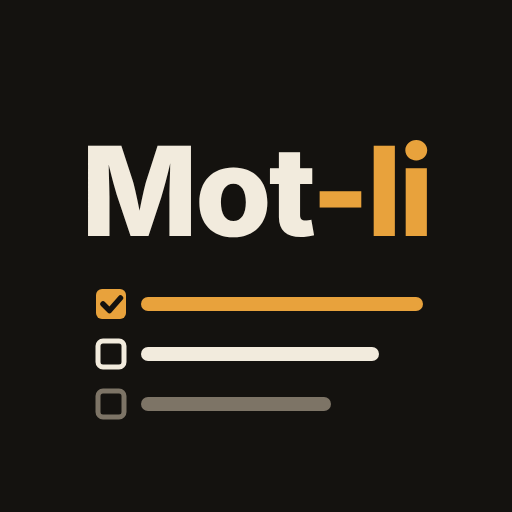
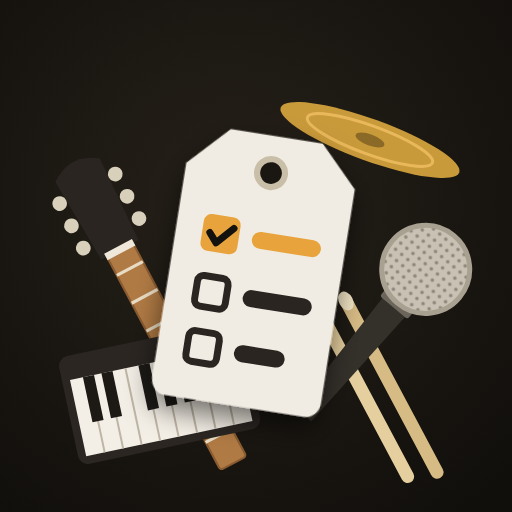
v1.42.0: アプリのアイコンを荷札＋機材のデザインに
Claude-Session: https://claude.ai/code/session_01WJbCoaqZxLhkj6v7Yf7pah

diff --git a/index.html b/index.html
@@ -14,9 +14,9 @@
 <!-- 公開版（github.io）では、通信先を自分のサイトとGoogleフォントだけに制限する（万一おかしな文字列が混ざっても、データを外部へ送れないようにする） -->
 <script>(function(){var h=location.hostname;if(/\.github\.io$/.test(h)||h==='localhost'||h==='127.0.0.1'){var m=document.createElement('meta');m.httpEquiv='Content-Security-Policy';m.content="default-src 'self'; script-src 'self' 'unsafe-inline'; style-src 'self' 'unsafe-inline' https://fonts.googleapis.com; font-src 'self' https://fonts.gstatic.com data:; img-src 'self' data: blob:; connect-src 'self'; worker-src 'self'; manifest-src 'self' data:; media-src 'none'; object-src 'none'; frame-src 'none'; base-uri 'none'; form-action 'none'";document.head.appendChild(m);}})();</script>
 <script>(function(){var t="auto";try{t=localStorage.getItem("gp-theme-v1")||"auto";}catch(e){}if(t!=="light"&&t!=="dark"){t=(window.matchMedia&&window.matchMedia("(prefers-color-scheme: dark)").matches)?"dark":"light";}document.documentElement.setAttribute("data-theme",t);})();</script>
-<link rel="apple-touch-icon" href="icons/apple-touch-icon.png?v=1">
-<link rel="icon" type="image/png" sizes="32x32" href="icons/favicon-32.png?v=1">
-<link rel="icon" type="image/png" sizes="192x192" href="icons/icon-192.png?v=1">
+<link rel="apple-touch-icon" href="icons/apple-touch-icon.png?v=2">
+<link rel="icon" type="image/png" sizes="32x32" href="icons/favicon-32.png?v=2">
+<link rel="icon" type="image/png" sizes="192x192" href="icons/icon-192.png?v=2">
 <link rel="manifest" href="manifest.webmanifest">
 <title>プレイヤーズ持ち物リスト</title>
 <style>
@@ -682,7 +682,7 @@
 
 <div id="top-notice"></div>
 <div class="header">
-  <h1><svg class="title-ic" viewBox="0 0 24 24" aria-hidden="true" fill="none" stroke-linecap="round" stroke-linejoin="round"><rect x="2.5" y="3.6" width="5.2" height="5.2" rx="1.2" style="fill:var(--amber)"/><path d="M3.8 6.3l1.1 1.1 1.7-1.9" style="stroke:var(--bg)" stroke-width="1.4"/><path d="M10.5 6.2H21.5" style="stroke:var(--amber)" stroke-width="2.3"/><rect x="2.9" y="10.2" width="4.4" height="4.4" rx="1" stroke="currentColor" stroke-width="1.5"/><path d="M10.5 12.4H19.5" stroke="currentColor" stroke-width="2.3"/><rect x="2.9" y="16.4" width="4.4" height="4.4" rx="1" style="stroke:var(--cream-dim)" stroke-width="1.5"/><path d="M10.5 18.6H17" style="stroke:var(--cream-dim)" stroke-width="2.3"/></svg>プレイヤーズ持ち物リスト</h1>
+  <h1><svg class="title-ic" viewBox="0 0 24 24" aria-hidden="true" fill="none" stroke-linecap="round" stroke-linejoin="round"><g transform="rotate(9 12 12.5)"><path d="M12 5.4C13.2 2.6 16 1.6 19 1.8" style="stroke:var(--cream-dim)" stroke-width="1.3"/><path d="M5.6 7.2L8.4 4H15.6L18.4 7.2V20.4a1.2 1.2 0 0 1-1.2 1.2H6.8a1.2 1.2 0 0 1-1.2-1.2Z" stroke="currentColor" stroke-width="1.8"/><circle cx="12" cy="6.6" r="1.1" fill="currentColor"/><rect x="8" y="9.6" width="3.8" height="3.8" rx=".9" style="fill:var(--amber)"/><path d="M8.9 11.5l.9.9 1.3-1.5" style="stroke:var(--bg)" stroke-width="1.1"/><path d="M13.6 11.5H16" style="stroke:var(--amber)" stroke-width="2"/><rect x="8.3" y="15.3" width="3.2" height="3.2" rx=".8" stroke="currentColor" stroke-width="1.3"/><path d="M13.6 16.9H15.6" stroke="currentColor" stroke-width="2"/></g></svg>プレイヤーズ持ち物リスト</h1>
   <p>パートや予定に合わせて持ち物チェック</p>
 </div>
 
@@ -700,12 +700,15 @@
 (function(){
   var STORAGE_KEY = 'gp-list-v1';
   var THEME_KEY = 'gp-theme-v1';
-  var APP_VERSION = '1.41.0';
+  var APP_VERSION = '1.42.0';
   var FEEDBACK_URL = 'https://tally.so/r/9qL0A4';
   var FEEDBACK_APP_NAME = 'プレイヤーズ持ち物リスト';  // フォームの「どのアプリか」を自動で選ぶ（?app=）  // ご意見・不具合報告フォーム（Tally。プレイヤーズセットリストと共通で、フォーム内でアプリを選んでもらう）        // セマンティックバージョン（メジャー.マイナー.パッチ）。更新のたびに上げる
   var APP_RELEASE_DATE = '2026-10-30';
   // アップデート時に一度だけ出すお知らせ。版を上げるたびに必ず1行以上追加する（書き忘れても「細かな修正」と表示）
   var RELEASE_NOTES = {
+    '1.42.0': [
+      'アプリのアイコンを新しくしました。いろんな楽器と、持ち物チェックの荷札のデザインです。ホーム画面のアイコンは、追加し直すと新しくなります'
+    ],
     '1.41.0': [
       'アプリの名前を「プレイヤーズ持ち物リスト」に変えました。性別や編成（バンド・ソロ・セッション）を問わず使えるように。プレイヤーズセットリストの兄弟アプリです',
       'ホーム画面のアイコンを新しくしました（Mot-li）。ホーム画面での名前は「持ち物リスト」です。今のデータはそのまま使えます'

diff --git a/sw.js b/sw.js
@@ -1,7 +1,7 @@
 // プレイヤーズ持ち物リスト（旧：バンドマン持ち物リスト） Service Worker
 // 方針：ネット優先（最新版を取りに行く）→ 3秒以内に返事がない／オフラインなら保存済みの版で起動する。
 // アプリの更新は index.html の差し替えだけでOK。このファイルを変える必要はありません。
-const CACHE = 'band-mochimono-v1';
+const CACHE = 'band-mochimono-v2';
 const ASSETS = ['./', './index.html', './manifest.webmanifest', './icons/icon-192.png', './icons/apple-touch-icon.png'];
 const TIMEOUT_MS = 3000;
 

diff --git a/CHANGELOG.md b/CHANGELOG.md
@@ -9,6 +9,12 @@
 
 アプリ内では「設定」タブの一番下に、現在のバージョンとリリース日が表示されます。
 
+## [1.42.0] - 2026-10-30
+
+### 変更
+- アプリのアイコンを「荷札＋機材」のデザインに。チェック欄つきの荷札を中心に、ギター・鍵盤・マイク・スティック・シンバルを散らした（特定の楽器に寄せない）。新しいプレイヤーズセットリストのアイコン（床に貼ったセトリ）と同じ、暗い床に紙を置いた作り
+- タイトル先頭の小さなアイコンも荷札の形に。ブラウザのタブ用アイコン（favicon）は小さくても見えるよう荷札だけ
+
 ## [1.41.0] - 2026-10-30
 
 ### 変更
